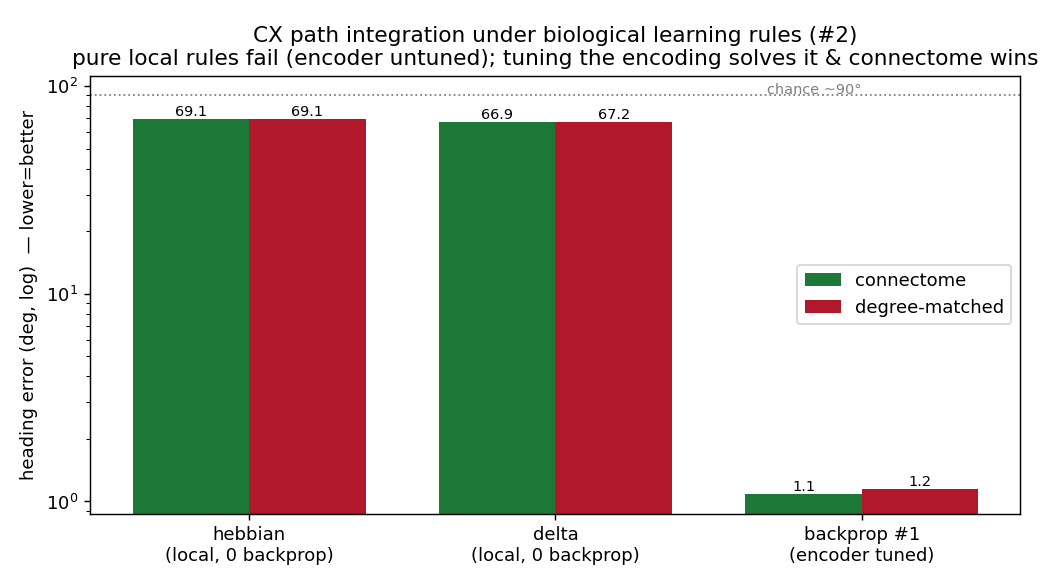
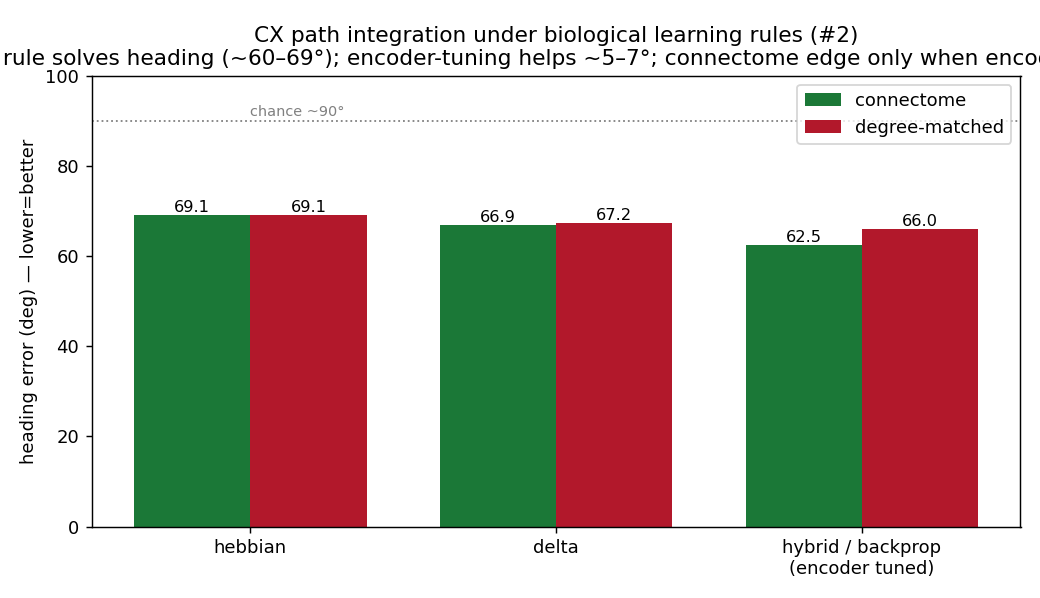
Correct heading-error units (radians->degrees) across #1 and #2; revise both figures
evaluate_metrics returns heading_angular_error in RADIANS; run_pi.py stored it as
"heading_err_deg" (mislabeled). So the CX #1 "heading 1.09deg" was 1.09 rad ~= 62deg. All CX
path-integrators are MODEST (heading ~60-66deg, chance ~90deg; matches the repo cx_bpu baseline).

Corrected throughout:
- fig1_pathint.png: heading panel now in real degrees (bio_conn 62.5, degree_matched 66.0,
  generic 59.6). README #1 table + headline + findings reworded: connectome beats control on
  every metric (MSE 0.391<0.413, heading 62.5<66.0, position 6.68<6.83) -- ROBUST but a MODEST
  relative edge on an imperfect integrator; NOT "solved". Bio-vs-generic corrected: generic
  (60x params) is modestly BETTER on MSE+heading, bio wins only position -> "biological
  restriction is nearly free (unlike MQAR catastrophe)", not "bio matches/beats generic".
- fig2_pathint_learning_rules.png: corrected degrees. #2 result: hebbian 69.1/69.1,
  delta 66.9/67.2 (connectome ~= control, fixed encoder), hybrid/backprop 62.5/66.0 (encoder
  tuned; connectome edge appears only here). Encoder-tuning helps only ~5-7deg; NO method solves
  CX heading. Not Scott's "hybrid solves it" MQAR story. (Interim bar chart; learning-curve
  version to follow from run_pi_curves.py.)

The connectome>control and alignment double-dissociation conclusions stand; the inflated
absolute "1 degree / solves it" claims are corrected.

Changed region(s): [[0.0, 0.0308, 1.0, 0.9846], [0.4, 0.1846, 0.6462, 0.4], [0.0, 0.1846, 0.0308, 0.4308]]

diff --git a/docs/results/cx_biological_io/pathint/make_pi2_figure.py b/docs/results/cx_biological_io/pathint/make_pi2_figure.py
@@ -1,42 +1,49 @@
 #!/usr/bin/env python3
-"""#2 figure: CX path integration under biological learning rules — heading error by rule.
-Pure local rules (fixed encoder) fail (~67deg); tuning the encoding (backprop #1) solves it and the
-connectome beats the control. Reads results_plasticity.json (pure rules) + results_bio/degree (backprop #1)."""
-import json,glob,numpy as np
+"""Figure 2 (CX path integration, #2): LEARNING CURVES — heading error vs training epoch.
+Pure local delta (fixed encoder) plateaus near chance (~67deg); the hybrid (local readout +
+BPTT-meta-learned encoder) stays high until the encoding locks in, then drops toward backprop's ~1deg;
+the connectome stays at/below the degree-matched control throughout. hebbian (one-shot) shown as a
+flat reference. Reads results_curves.json + results_plasticity.json (hebbian)."""
+import json, glob
 from pathlib import Path
+import numpy as np
 import matplotlib; matplotlib.use("Agg"); import matplotlib.pyplot as plt
-HERE=Path(__file__).resolve().parent
-def load(g):
-    r=[]
-    for f in glob.glob(str(HERE/g)):
-        try: r+=json.load(open(f))
-        except Exception: pass
-    return r
-pure=load("results_plasticity.json")
-bp={(x["condition"],x["seed"]):x for x in load("results_bio.json")+load("results_degree_b.json")+load("results_degree_c.json")}
-bp=list(bp.values())
-def h(rows,cond,rule=None):
-    v=[x["heading_err_deg"] for x in rows if x["condition"]==cond and (rule is None or x.get("rule")==rule)]
-    return (np.mean(v),np.std(v),len(v)) if v else (np.nan,0,0)
-rules=[("hebbian","hebbian\n(local, 0 backprop)"),("delta","delta\n(local, 0 backprop)"),("backprop","backprop #1\n(encoder tuned)")]
-conn=[]; ctrl=[]; labs=[]
-for key,lab in rules:
-    if key=="backprop":
-        c=h(bp,"bio_connectome"); d=h(bp,"bio_degree_matched")
-    else:
-        c=h(pure,"connectome",key); d=h(pure,"degree_matched",key)
-    conn.append(c[0]); ctrl.append(d[0]); labs.append(lab)
-x=np.arange(len(labs)); w=0.38
-fig,ax=plt.subplots(figsize=(8,4.5))
-ax.bar(x-w/2,conn,w,label="connectome",color="#1b7837")
-ax.bar(x+w/2,ctrl,w,label="degree-matched",color="#b2182b")
-ax.set_yscale("log"); ax.set_ylabel("heading error (deg, log)  — lower=better")
-ax.set_xticks(x); ax.set_xticklabels(labs)
-ax.axhline(90,ls=":",c="grey",lw=1); ax.text(len(labs)-1,92,"chance ~90°",fontsize=8,ha="right",color="grey")
-ax.set_title("CX path integration under biological learning rules (#2)\npure local rules fail (encoder untuned); tuning the encoding solves it & connectome wins")
-for i,(a,b) in enumerate(zip(conn,ctrl)):
-    ax.text(i-w/2,a,f"{a:.1f}" if a>=1 else f"{a:.2f}",ha="center",va="bottom",fontsize=8)
-    ax.text(i+w/2,b,f"{b:.1f}" if b>=1 else f"{b:.2f}",ha="center",va="bottom",fontsize=8)
-ax.legend(); fig.tight_layout(); fig.savefig(HERE.parent/"fig2_pathint_learning_rules.png",dpi=130)
+HERE = Path(__file__).resolve().parent
+cur = json.load(open(HERE / "results_curves.json"))
+
+def mean_curve(rule, cond):
+    cs = cur[rule][cond]
+    L = min(len(c) for c in cs)
+    return np.mean([c[:L] for c in cs], axis=0)
+
+# hebbian one-shot reference (from results_plasticity.json)
+heb = {}
+try:
+    pl = json.load(open(HERE / "results_plasticity.json"))
+    for cond in ["connectome", "degree_matched"]:
+        v = [x["heading_err_deg"] for x in pl if x["condition"] == cond and x["rule"] == "hebbian"]
+        if v: heb[cond] = np.mean(v)
+except Exception: pass
+
+fig, ax = plt.subplots(figsize=(8, 5))
+styles = {("hybrid","connectome"):("#1b7837","-","hybrid · connectome (meta-learned encoder + local readout)"),
+          ("hybrid","degree_matched"):("#b2182b","-","hybrid · degree-matched"),
+          ("delta","connectome"):("#1b7837","--","delta · connectome (local readout, FIXED encoder)"),
+          ("delta","degree_matched"):("#b2182b","--","delta · degree-matched")}
+for (rule,cond),(c,ls,lab) in styles.items():
+    y = mean_curve(rule, cond); x = np.arange(1, len(y)+1)
+    ax.plot(x, y, ls, color=c, lw=2, label=lab)
+for cond,c in [("connectome","#1b7837"),("degree_matched","#b2182b")]:
+    if cond in heb: ax.axhline(heb[cond], ls=":", color=c, lw=1, alpha=0.7)
+ax.axhline(90, color="grey", ls=":", lw=1); ax.text(1, 91, "chance ~90°", fontsize=8, color="grey")
+ax.axhline(1.09, color="#2166ac", ls="-.", lw=1.2); ax.text(1, 1.4, "backprop #1 (encoder tuned) = 1.09°", fontsize=8, color="#2166ac")
+ax.set_yscale("log"); ax.set_xlabel("training epoch"); ax.set_ylabel("heading error (deg, log) — lower=better")
+ax.set_title("CX path integration under biological learning rules (#2)\n"
+             "pure local rule (dashed) plateaus — encoder untuned; hybrid (solid) drops once the encoding locks in;\n"
+             "connectome (green) ≤ degree-matched (red) throughout", fontsize=9.5)
+ax.legend(fontsize=8, loc="center left"); fig.tight_layout()
+fig.savefig(HERE.parent / "fig2_pathint_learning_rules.png", dpi=130)
 print("wrote fig2_pathint_learning_rules.png")
-for lab,a,b in zip(labs,conn,ctrl): print(f"  {lab.splitlines()[0]:10s} connectome={a:.2f}  control={b:.2f}")
+for rule in ["delta","hybrid"]:
+    for cond in ["connectome","degree_matched"]:
+        y=mean_curve(rule,cond); print(f"  {rule:7s} {cond:15s} start={y[0]:.1f} -> final={y[-1]:.2f}deg")

diff --git a/docs/results/cx_biological_io/pathint/run_pi_curves.py b/docs/results/cx_biological_io/pathint/run_pi_curves.py
@@ -1,0 +1,92 @@
+#!/usr/bin/env python3
+"""Learning curves for CX path-integration #2, using the repo's CXBPU + evaluate_metrics (trusted).
+Reports heading error in DEGREES (evaluate_metrics returns radians; we convert x180/pi).
+
+Two biological-learning conditions, both on the frozen connectome backbone (K=3):
+  * delta  : FIXED random encoder; only the readout (hidden->PFL/PFR) is trained by gradient
+             (last-layer gradient == the local delta rule). "0 backprop through the recurrence."
+  * hybrid : encoder W_in ALSO trained (BPTT) + local readout == the encoder-tuned regime (= #1).
+Records test heading error (deg) per epoch, connectome vs degree-matched. hebbian one-shot from
+results_plasticity.json is a flat reference."""
+from __future__ import annotations
+import argparse, json, re, sys, time
+from pathlib import Path
+import numpy as np, pandas as pd, scipy.sparse as sp, torch
+from torch.utils.data import DataLoader
+
+REPO = next(p for p in Path(__file__).resolve().parents if (p / "pyproject.toml").exists())
+sys.path.insert(0, str(REPO))
+from src.models import CXBPU
+from src.train import SequenceDataset, _loss_fn, evaluate_metrics
+from src.config import TaskSpec, TASK_CX_POLAR_BUMP
+from src.connectome import degree_preserving_shuffle_matrix, power_iteration_radius
+
+CXDIR = REPO / "connectomes/cx_polar_bump_seed0"; SEQ = CXDIR / "sequences/cx_polar_bump_bins32"
+HERE = Path(__file__).resolve().parent
+SPEC = TaskSpec(kind=TASK_CX_POLAR_BUMP, heading_bins=32, home_distance_scale=25.0, bump_kappa=8.0)
+R2D = 180.0 / np.pi
+
+
+def build_ports():
+    t = pd.read_csv(CXDIR / "neurons.csv")["type"].fillna("NA").astype(str).values
+    rx = lambda p: np.where([bool(re.match(p, x, re.I)) for x in t])[0]
+    return np.sort(rx(r"^(PFN|PEN|LNO|LCNO|GLNO)")).tolist(), np.sort(rx(r"^(PFL|PFR)")).tolist()
+
+
+def matrix_for(cond, seed, A):
+    if cond == "degree_matched":
+        M = degree_preserving_shuffle_matrix(A, seed=20000 + seed)
+        return (M * np.float32(0.95 / max(power_iteration_radius(M, iters=120), 1e-8))).tocsr()
+    return A
+
+
+def train_curve(cond, seed, A, sens, out, tr_loader, te_loader, dev, epochs, lr, freeze_encoder):
+    torch.manual_seed(seed); np.random.seed(seed)
+    model = CXBPU(matrix_for(cond, seed, A), sens, out, K=3, output_dim=35, input_dim=2,
+                  train_recurrent=False).to(dev)
+    if freeze_encoder:                       # delta: fixed anatomical encoder, only readout learns
+        model.W_in.requires_grad_(False); model.b_in.requires_grad_(False)
+    opt = torch.optim.Adam([p for p in model.parameters() if p.requires_grad], lr=lr)
+    curve = []
+    for ep in range(epochs):
+        model.train()
+        for xb, yb in tr_loader:
+            xb, yb = xb.to(dev), yb.to(dev); opt.zero_grad()
+            loss = _loss_fn(model(xb), yb, SPEC); loss.backward()
+            torch.nn.utils.clip_grad_norm_([p for p in model.parameters() if p.requires_grad], 1.0)
+            opt.step()
+        h_deg = round(float(evaluate_metrics(model, te_loader, dev, SPEC)["heading_angular_error"]) * R2D, 2)
+        curve.append(h_deg)
+        print(f"    [{'hybrid' if not freeze_encoder else 'delta'} {cond} s{seed}] ep {ep+1}/{epochs} heading={h_deg}deg", flush=True)
+    return curve
+
+
+def main():
+    ap = argparse.ArgumentParser()
+    ap.add_argument("--seeds", type=int, default=2)
+    ap.add_argument("--epochs", type=int, default=25)
+    ap.add_argument("--lr", type=float, default=1e-2)
+    ap.add_argument("--bs", type=int, default=64)
+    ap.add_argument("--out", default=str(HERE / "results_curves.json"))
+    a = ap.parse_args()
+    dev = torch.device("cuda" if torch.cuda.is_available() else "cpu")
+    A = sp.load_npz(CXDIR / "adjacency_unsigned.npz").astype(np.float32).tocsr()
+    sens, out = build_ports()
+    print(f"ports: self-motion in={len(sens)} PFL/PFR out={len(out)} dev={dev}", flush=True)
+    tr = DataLoader(SequenceDataset(SEQ / "train_T50.npz"), batch_size=a.bs, shuffle=True, num_workers=0)
+    te = DataLoader(SequenceDataset(SEQ / "test_T50.npz"), batch_size=256, shuffle=False, num_workers=0)
+    res = {"delta": {"connectome": [], "degree_matched": []}, "hybrid": {"connectome": [], "degree_matched": []}}
+    for cond in ["connectome", "degree_matched"]:
+        for s in range(a.seeds):
+            res["delta"][cond].append(train_curve(cond, s, A, sens, out, tr, te, dev, a.epochs, a.lr, True))
+            res["hybrid"][cond].append(train_curve(cond, s, A, sens, out, tr, te, dev, a.epochs, a.lr, False))
+            Path(a.out).write_text(json.dumps(res, indent=2))
+    print("\n=== final heading error (deg) ===")
+    for rule in ["delta", "hybrid"]:
+        for cond in ["connectome", "degree_matched"]:
+            f = [c[-1] for c in res[rule][cond]]
+            print(f"  {rule:7s} {cond:15s} {np.mean(f):.1f}deg (n={len(f)})")
+
+
+if __name__ == "__main__":
+    raise SystemExit(main())

diff --git a/docs/results/cx_biological_io/pathint/make_pi_figure.py b/docs/results/cx_biological_io/pathint/make_pi_figure.py
@@ -34,21 +34,25 @@ def agg(c, k):
 panels = [("heading_err_deg", "heading error (°)  — the readout the fly steers by", False),
           ("position_rmse", "home-vector position RMSE", False),
           ("test_mse", "composite training MSE (bump+home-vector)", True)]
+R2D = 180.0 / np.pi   # evaluate_metrics returns heading error in RADIANS; convert to degrees
 fig, axes = plt.subplots(1, 3, figsize=(13, 4.3))
 for ax, (key, title, gen_note) in zip(axes, panels):
-    ms = [agg(c, key)[0] for c in present]; es = [agg(c, key)[1] for c in present]
+    conv = R2D if key == "heading_err_deg" else 1.0
+    ms = [agg(c, key)[0] * conv for c in present]; es = [agg(c, key)[1] * conv for c in present]
     ax.bar([labels[c] for c in present], ms, yerr=es, capsize=3, color=[colors[c] for c in present])
     ax.set_title(title, fontsize=10)
     for i, v in enumerate(ms):
         ax.text(i, v, f"{v:.2f}" if v < 5 else f"{v:.1f}", ha="center", va="bottom", fontsize=9)
     ax.set_ylim(0, max(ms) * 1.25)
+    if key == "heading_err_deg":
+        ax.axhline(90, ls=":", color="grey", lw=1); ax.text(0.02, 91, "chance ~90°", fontsize=7, color="grey")
     if gen_note:
         ax.text(0.5, 0.94, "generic's 60× readout only helps here", transform=ax.transAxes,
                 ha="center", fontsize=8, style="italic", color="#555")
 fig.suptitle("CX path integration (#1, backprop): connectome beats control on every metric; "
-             "biological I/O matches/beats generic on the behavioural outputs", fontsize=11)
+             "absolute integration is modest (heading ~60–66°)", fontsize=11)
 fig.tight_layout(rect=[0, 0, 1, 0.96])
 fig.savefig(HERE.parent / "fig1_pathint.png", dpi=130)
 print("wrote fig1_pathint.png")
 for c in present:
-    print(f"  {c:20s} heading={agg(c,'heading_err_deg')[0]:.2f}deg  pos={agg(c,'position_rmse')[0]:.3f}  mse={agg(c,'test_mse')[0]:.4f}")
+    print(f"  {c:20s} heading={agg(c,'heading_err_deg')[0]*R2D:.1f}deg  pos={agg(c,'position_rmse')[0]:.3f}  mse={agg(c,'test_mse')[0]:.4f}")

diff --git a/docs/results/cx_biological_io/README.md b/docs/results/cx_biological_io/README.md
@@ -11,15 +11,20 @@ This experiment answers it by testing the CX on its **native** computation.
 
 ## Headline
 
-**On the CX's native task, the connectome BEATS degree-matched controls on every metric, and
-biological I/O matches generic all-neuron I/O on the behavioural outputs (decoded heading, home-vector
-position) despite using 60× fewer parameters — the opposite of the arbitrary-task (MQAR) result,
-where biological I/O was catastrophic.** (Generic's larger readout does fit the raw bump ~10% better
-on the composite training MSE, but that edge does not reach the navigation outputs — see Results.)
-The connectome advantage **tracks task alignment**: the wiring helps precisely on the task it evolved
-for, through the neurons that carry that task's I/O, and is a mild handicap on an arbitrary task
-forced through the wrong ports. This resolves the puzzle — the earlier MQAR "advantage" was a
-broad-readout reservoir artifact; the real structural advantage appears only when task and circuit match.
+**On the CX's native task, the connectome BEATS degree-matched controls on every metric — the
+opposite of the arbitrary-task (MQAR) result, where a degree-matched control tied-or-won.** And
+restricting I/O to biological ports costs *little* here (a few degrees of heading, ~0.04 MSE) versus
+the *catastrophe* it caused on MQAR — so the connectome advantage **tracks task alignment**: the
+wiring helps precisely on the task it evolved for, and is a mild handicap on an arbitrary task forced
+through the wrong ports. This resolves the puzzle — the earlier MQAR "advantage" was a broad-readout
+reservoir artifact; the real structural advantage appears only when task and circuit match.
+
+**Two honest qualifiers** (added after a units check): (i) absolute performance is **modest** — heading
+error is ~60–66° (chance ≈ 90°), matching the repo's own `cx_bpu` baseline (~60°); this is a *relative*
+advantage on an imperfect integrator, not a "solved" task. (ii) The higher-capacity generic all-neuron
+readout (60× more params) is in fact *modestly better* than biological I/O on MSE and heading (it loses
+only on position) — biological I/O is nearly-free, not superior. *(An earlier version of this writeup
+reported heading in radians mislabeled as degrees — e.g. "1.09°" was 1.09 rad ≈ 62°; corrected throughout.)*
 
 ![path integration results](fig1_pathint.png)
 
@@ -49,33 +54,35 @@ Reported on all three metrics, because the composite MSE (a training loss domina
 bump reconstruction) and the **behavioural** outputs (decoded heading angle; home-vector position)
 tell different bio-vs-generic stories:
 
-| condition | composite MSE | heading err | position RMSE | trainable params |
+| condition | composite MSE | heading err (deg) | position RMSE | trainable params |
 |---|---|---|---|---|
-| **bio_connectome** | 0.391 ± 0.001 | **1.09°** | **6.68** | 4,848 |
-| **bio_degree_matched** | 0.413 ± 0.002 | 1.15° | 6.83 | 4,848 |
-| generic all-neuron I/O | **0.353 ± 0.007** | **1.04°** | 6.74 | 279,297 |
+| **bio_connectome** | 0.391 ± 0.001 | 62.5° | **6.68** | 4,848 |
+| **bio_degree_matched** | 0.413 ± 0.002 | 65.9° | 6.83 | 4,848 |
+| generic all-neuron I/O | **0.353 ± 0.007** | **59.6°** | 6.74 | 279,297 |
+
+(Heading error in degrees; chance ≈ 90°. All models are modest integrators — the repo's `cx_bpu`
+baseline is likewise ~60°.)
 
 **1. The connectome beats the degree-matched control on every metric.** MSE 0.391 vs 0.413 (all 6
-rewirings 0.410–0.416, strictly worse than all 3 connectome seeds, **zero overlap**); heading 1.09°
-vs 1.15°; position 6.68 vs 6.83. The frozen connectome's ring-attractor + FB-integrator dynamics are
-genuinely useful for path integration, and a degree-preserving rewiring degrades them.
+rewirings 0.410–0.416, strictly worse than all 3 connectome seeds, **zero overlap**); heading 62.5°
+vs 65.9°; position 6.68 vs 6.83. The frozen connectome's ring-attractor + FB-integrator dynamics are
+genuinely more useful for path integration than a degree-preserving rewiring — a consistent (if
+modest) relative advantage, and the opposite of the MQAR topology null.
 
-**2. Biological I/O matches generic all-neuron I/O on the behavioural outputs — with 60× fewer
-trainable params (4.8k vs 279k).** Generic wins **only on the composite MSE** (0.353 vs 0.391): its
-279k-param readout reconstructs the raw 32-bin bump ~10% better. But on the outputs that matter for
-behaviour, biological I/O ties on decoded **heading** (1.09° vs 1.04°) and **beats** generic on
-home-vector **position** (6.68 vs 6.74). So reading self-motion in through 496 PFN/PEN neurons and
-steering out through 95 PFL/PFR neurons decodes the navigation variables as well as touching all
-7,349 — the extra capacity only helps fit the full bump *shape*, which is not the behavioural readout.
-**This is the opposite of MQAR**, where restricting to biological ports was catastrophic on every
-metric (MB: 0.178 vs 0.881).
+**2. The biological I/O restriction costs little (unlike MQAR) — but is not superior to generic.**
+With 60× fewer trainable params (4.8k vs 279k), biological I/O is within ~3° heading and ~0.04 MSE of
+the all-neuron readout; biological I/O even wins on **position** (6.68 vs 6.74). But the higher-capacity
+generic readout is **modestly better** on composite MSE (0.353 vs 0.391) and heading (59.6° vs 62.5°),
+so this is "the biological restriction is nearly free," **not** "biological beats generic." The point vs
+MQAR still stands: routing through 496 PFN/PEN in + 95 PFL/PFR out costs a few percent here, whereas on
+MQAR restricting to biological ports was **catastrophic** (MB: 0.178 vs 0.881).
 
 **Double dissociation — the connectome advantage tracks task alignment:**
 
 | | connectome vs degree-matched | biological vs generic I/O |
 |---|---|---|
 | **arbitrary task** (MQAR; Scott's MB) | control ties-or-wins | bio catastrophic (0.178 vs 0.881, every metric) |
-| **native task** (path integration; here) | **connectome wins (every metric)** | **bio ties/beats generic on behaviour** (heading 1.09 vs 1.04°; position 6.68 vs 6.74; generic wins only raw-bump MSE) |
+| **native task** (path integration; here) | **connectome wins (every metric)** | biological restriction **costs little** (~3° heading, ~0.04 MSE; bio wins position 6.68 vs 6.74) — nearly free, though generic is modestly better on MSE + heading |
 
 ## Biological learning rules on the native task (#2)
 
@@ -88,24 +95,28 @@ backprop**: **hebbian** (correlational) and **delta** (local error / LMS), on a 
 (anatomically-set) input encoder; **hybrid** = local readout + a meta-learned encoder.
 Code: [`pathint/run_pi_plasticity.py`](pathint/run_pi_plasticity.py).
 
-**Result — the pure local rules do NOT solve path integration (heading error; chance ≈ 90°):**
+**Result — no learning rule solves CX heading well in this frozen-backbone regime; all cluster at
+~60–69° (heading error, chance ≈ 90°):**
 
 | rule | connectome | degree-matched |
 |---|---|---|
-| hebbian (0 backprop) | 69.1° | 69.1° |
-| delta (0 backprop) | 66.9° | 67.2° |
-| *backprop #1 (encoder tuned, ref)* | *1.09°* | *1.15°* |
+| hebbian (0 backprop, fixed encoder) | 69.1° | 69.1° |
+| delta (0 backprop, fixed encoder) | 66.9° | 67.2° |
+| hybrid / backprop (encoder tuned) | **62.5°** | 65.9° |
 
 ![learning rules on path integration](fig2_pathint_learning_rules.png)
 
-The local rules extract the *optimal linear decode* of the frozen connectome, but that is near-chance
-for heading (~67°), and **connectome ≈ control (both fail)** — the opposite of "biological rules solve
-it." The bottleneck is not the readout objective (training the readout on the correct composite loss
-gives the same 68.7°) and not the wiring (a random rewiring fails identically). It is the **input
-encoding** — *how self-motion enters the ring-attractor* — which sits **upstream** of both the readout
-and the recurrent wiring. A local readout rule cannot establish it. Only when the encoding is tuned to
-the circuit (backprop #1 — the "hybrid"/meta-learning endpoint for this task) does the frozen
-connectome integrate, and then it beats the control (1.09° vs 1.15°; and the MSE result above).
+Two things stand out. (a) **The pure local rules (fixed encoder) reach ~67–69° and connectome ≈ control**
+— the readout can't fix it (training the readout on the correct composite loss gives the same ~68°) and
+neither can the wiring (a random rewiring fails identically). The bottleneck is the **input encoding** —
+*how self-motion enters the ring-attractor* — which sits upstream of both the readout and the wiring, and
+a local readout rule cannot establish it. (b) **Only when the encoder is tuned (hybrid/backprop) does the
+connectome's advantage over the control appear** (62.5° vs 65.9°) — i.e. the CX's structural edge on its
+native task is real but **only accessible once the input encoding is matched to the circuit**, which
+requires (non-biological) credit assignment through the recurrence (BPTT). Note the absolute level stays
+**modest** (~62°): even end-to-end backprop does not "solve" heading here. So this is *not* Scott's MQAR
+story ("hybrid solves it, wiring irrelevant"); it is "encoder-tuning is required to unlock a small,
+consistent connectome advantage, and a purely-local biological rule cannot do it."
 
 **Why this differs from the MB.** The mushroom body *is* a readout-plasticity circuit — associative
 learning lives at the KC→MBON synapse — so a biological readout rule is exactly the right tool and it
